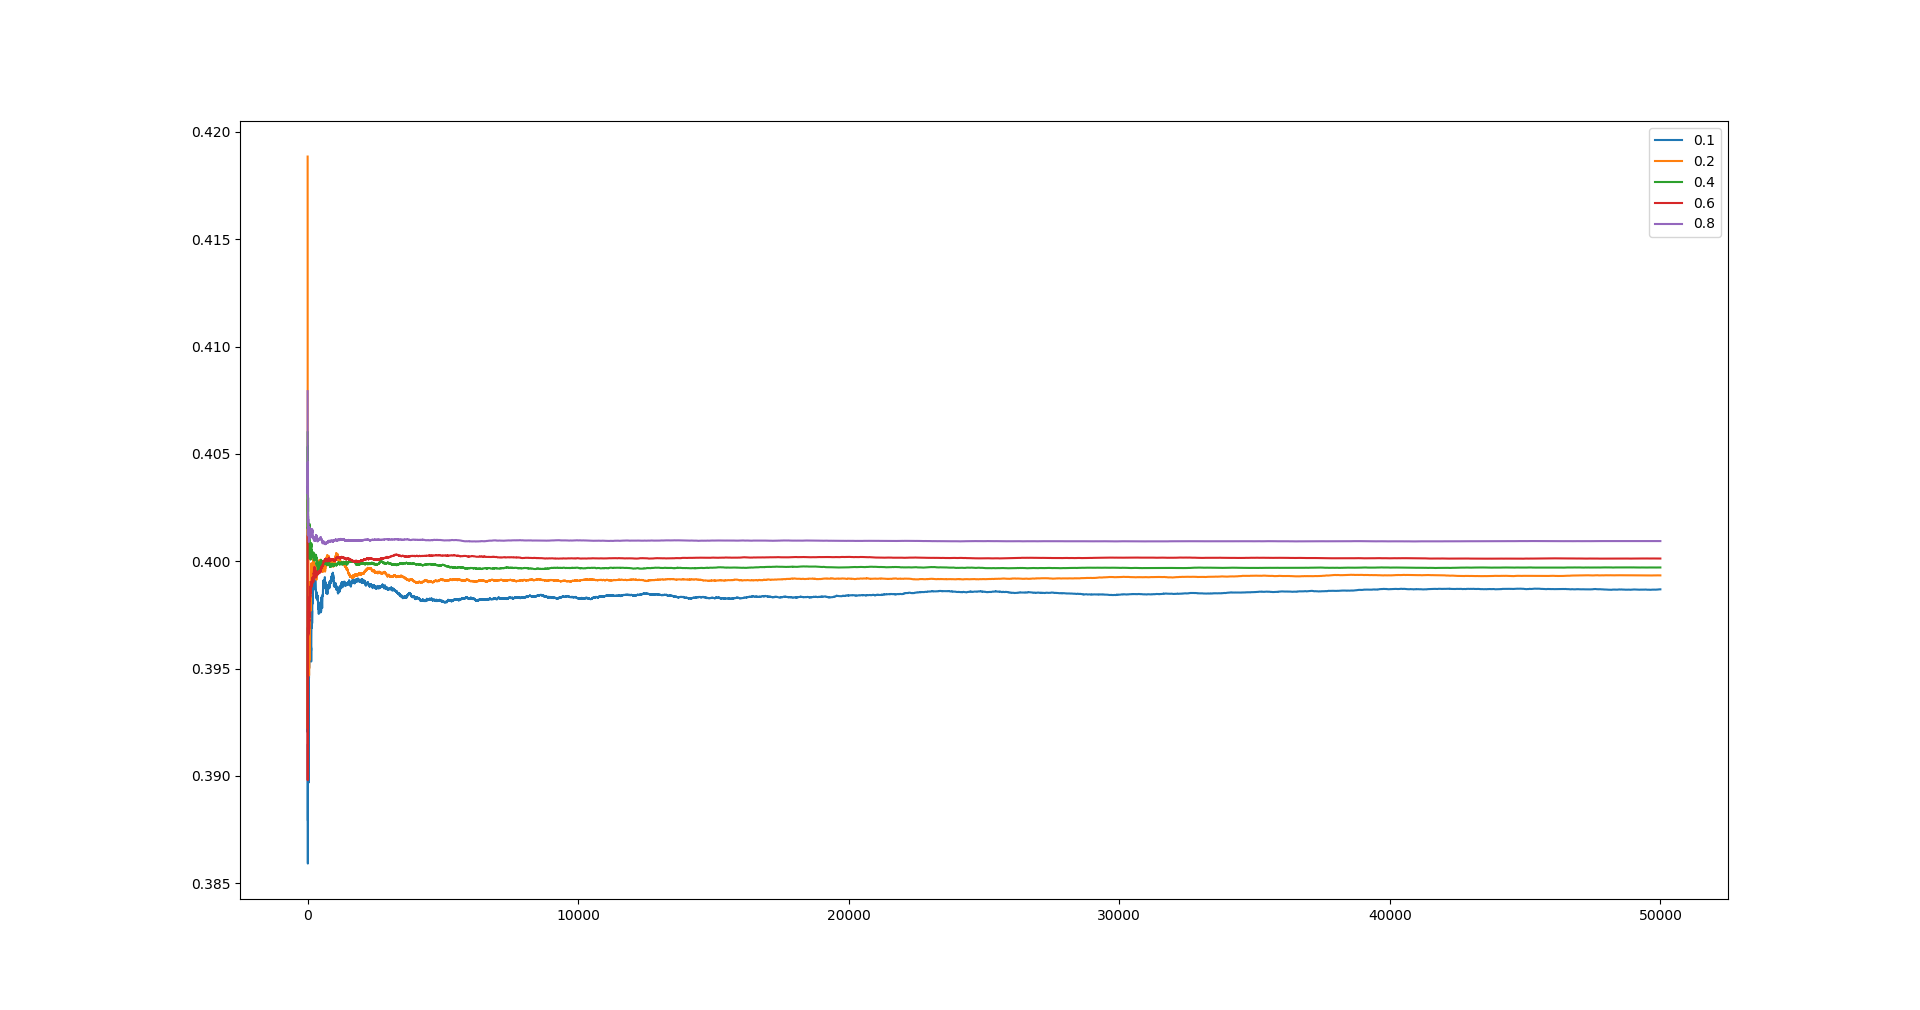
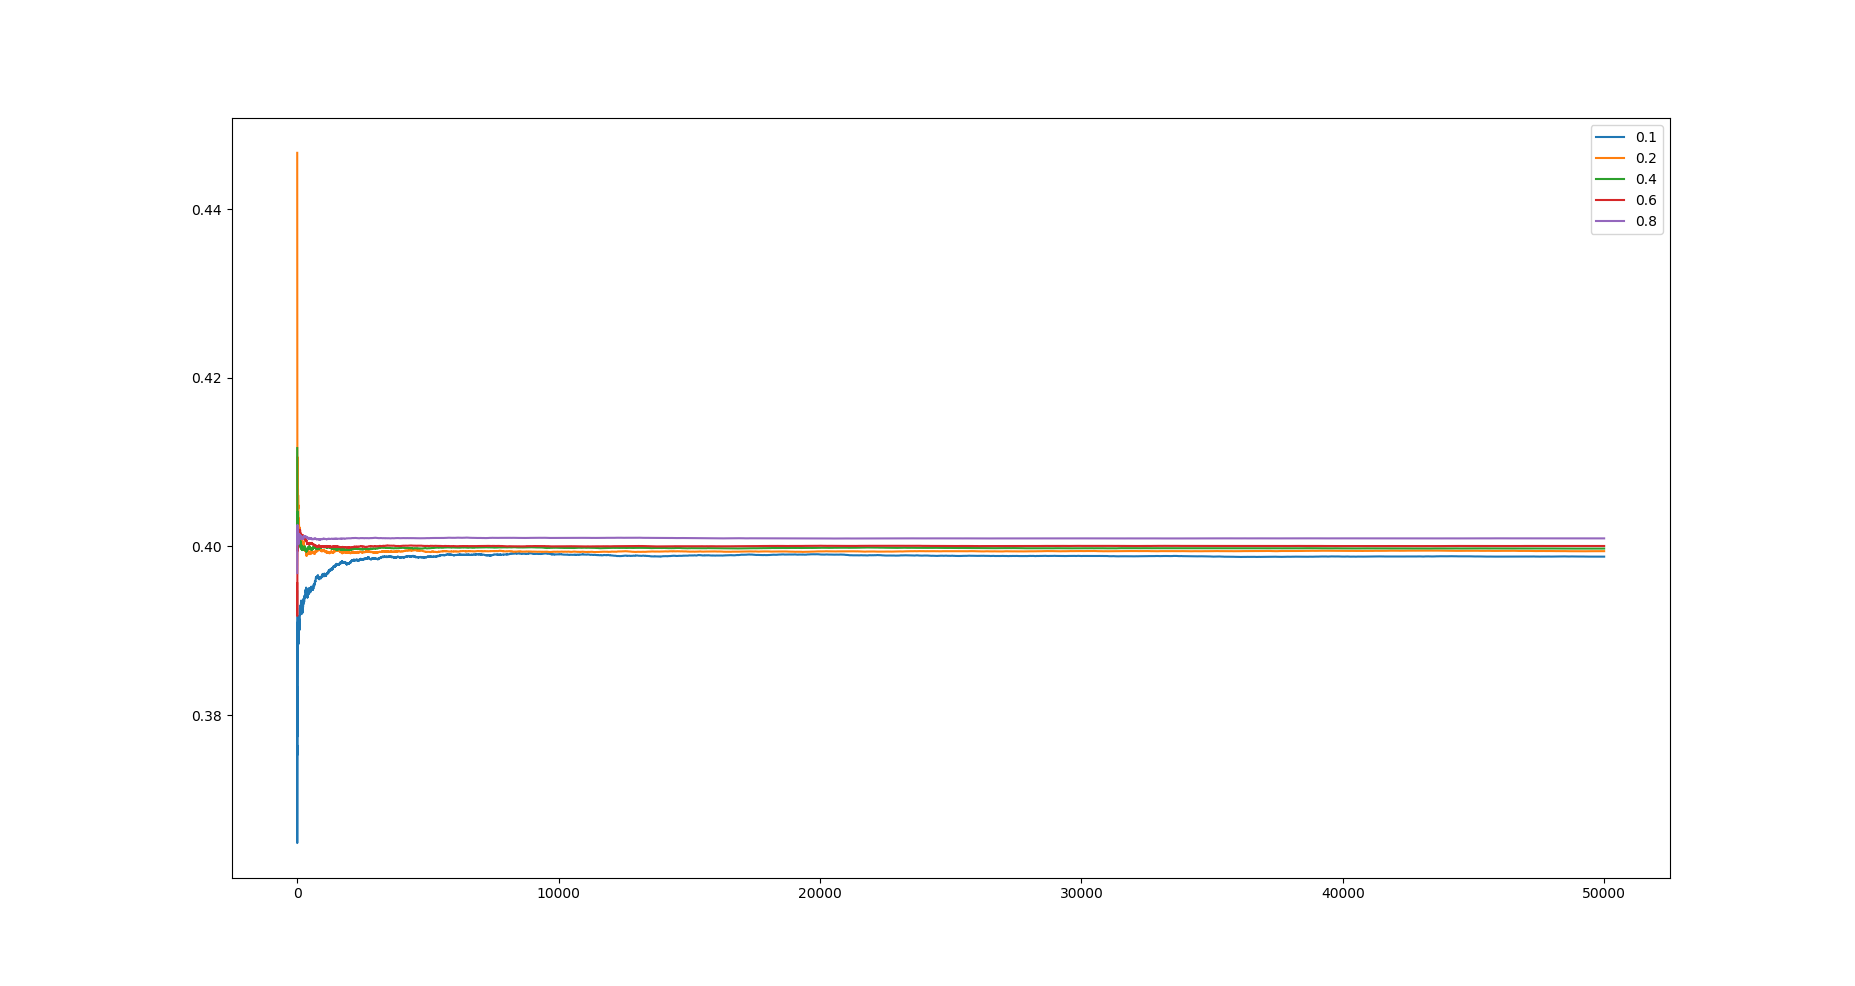
Use selection=random for Lasso

diff --git a/main.py b/main.py
@@ -16,7 +16,7 @@ def seed():
 
 n_scores_per_test = 50000
 test_ratios = [.1, .2, .4, .6, .8]
-model = Lasso(alpha=0.0005, random_state=seed(), tol=0.00001, copy_X=True)
+model = Lasso(alpha=0.0005, tol=0.00001, copy_X=True, selection='random', random_state=seed())
 
 # load our training data
 train = pd.read_csv('train.csv')
@@ -27,6 +27,8 @@ y = np.log(train['SalePrice'].values)
 def rmse(y_predicted, y_actual):
     tmp = np.power(y_actual - y_predicted, 2) / y_actual.size
     return np.sqrt(np.sum(tmp, axis=0))
+    #tmp = (y_actual - y_predicted) / y_actual.size
+    #return np.sum(tmp, axis=0)
 
 
 for test_ratio in test_ratios:
